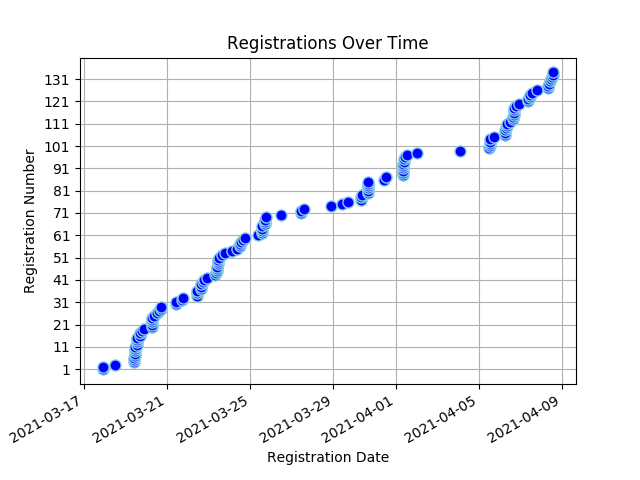
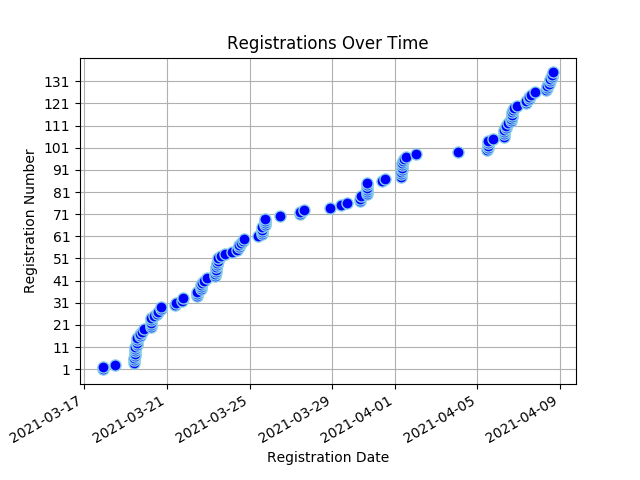
Registree stats backup on Thu 08 Apr 2021 16:24:18 SAST

diff --git a/content/registrees/_index.md b/content/registrees/_index.md
@@ -3,9 +3,9 @@ title: Registration Stats
 draft: false
 ---
 
-<ul><li><strong>Number of Registrees</strong>: 134</li>
+<ul><li><strong>Number of Registrees</strong>: 135</li>
 
-<li><strong>Number of Clubs</strong>: 48</li>
+<li><strong>Number of Clubs</strong>: 49</li>
 
 <li><strong>Club With Most Attendees</strong>: Windhoek (13 registrees)</li>
 </ul><h2>Registrees</h2>
@@ -33,6 +33,6 @@ draft: false
         </tr>
     </thead>
     <tbody>
-<tr><td>Natalie Abrahams</td><td>Cape Town</td><td>410W</td></tr><tr><td>Linda Anderson</td><td>George</td><td>410W</td></tr><tr><td>Linda Baumgarten</td><td>Sea Point</td><td>410W</td></tr><tr><td>Ulrike Behrens</td><td>Windhoek</td><td>410W</td></tr><tr><td>Valencia Beukes-Williams</td><td>Kuilsriver</td><td>410W</td></tr><tr><td>JOSE BRAGA BORGES</td><td>Malmesbury</td><td>410W</td></tr><tr><td>Paul Brauteseth</td><td>Port Shepstone</td><td>410E</td></tr><tr><td>Nelle Buhrmann</td><td>Sea Point</td><td>410W</td></tr><tr><td>Herman Cadman</td><td>Stellenbosch</td><td>410W</td></tr><tr><td>Linda Ann Cannone</td><td>Fish Hoek</td><td>410W</td></tr><tr><td>Sue Charles</td><td>Tokai</td><td>410W</td></tr><tr><td>Perry Chetty</td><td>East Coast</td><td>410E</td></tr><tr><td>Delaney Yeltsin Cloete</td><td>Eden</td><td>410W</td></tr><tr><td>Esme Cornelius</td><td>Kuilsriver</td><td>410W</td></tr><tr><td>Sharon Cottle</td><td>Groote Schuur</td><td>410W</td></tr><tr><td>Peter Daniel</td><td>Gordons Bay</td><td>410W</td></tr><tr><td>Norma Daniel</td><td>Gordons Bay</td><td>410W</td></tr><tr><td>Engela de Kock</td><td>Swellendam</td><td>410W</td></tr><tr><td>Francois de Kock</td><td>Swellendam</td><td>410W</td></tr><tr><td>ANDRE DE VILLIERS</td><td>Malgas</td><td>410W</td></tr><tr><td>Peggy Du Plooy</td><td>Krugersdorp</td><td>410E</td></tr><tr><td>Ivan Du Plooy</td><td>Krugersdorp</td><td>410E</td></tr><tr><td>Desiree du Toit</td><td>Ramsgate</td><td>410E</td></tr><tr><td>Natalie Etridge</td><td>Sedgefield</td><td>410W</td></tr><tr><td>AIDAN Ewers</td><td>Newlands</td><td>410W</td></tr><tr><td>Roger Fahrbach</td><td>Windhoek</td><td>410W</td></tr><tr><td>Beate Fahrbach</td><td>Windhoek</td><td>410W</td></tr><tr><td>Charles Flanagan</td><td>Tokai</td><td>410W</td></tr><tr><td>Jules Flanagan</td><td>Tokai</td><td>410W</td></tr><tr><td>Martin Froise</td><td>Letaba Tzaneen</td><td>410E</td></tr><tr><td>Valerie Graham</td><td>Nelspruit</td><td>410E</td></tr><tr><td>Mike Graham</td><td>Nelspruit</td><td>410E</td></tr><tr><td>Viv Grater</td><td>Sedgefield</td><td>410W</td></tr><tr><td>Mattheus Groves</td><td>Sedgefield</td><td>410W</td></tr><tr><td>Barbara Haywood</td><td>Eden</td><td>410W</td></tr><tr><td>Mike Heathcote</td><td>Port Shepstone</td><td>410E</td></tr><tr><td>Dorothy Hess</td><td>Kuilsriver</td><td>410W</td></tr><tr><td>Wendy Higgins</td><td>Wilro Park</td><td>410E</td></tr><tr><td>Jacqui Hocking</td><td>Midrand</td><td>410E</td></tr><tr><td>Cliff Hocking</td><td>Midrand</td><td>410E</td></tr><tr><td>Liz Houston</td><td>Table View</td><td>410W</td></tr><tr><td>John Houston</td><td>Table View</td><td>410W</td></tr><tr><td>Alna Jackson</td><td>Pretoria Jakaranda</td><td>410E</td></tr><tr><td>Dawid Jacobs</td><td>Durbanville</td><td>410W</td></tr><tr><td>Jean Jacobs</td><td>Mitchells Plain</td><td>410W</td></tr><tr><td>WOLSLEY Jacobson</td><td>Cape Town</td><td>410W</td></tr><tr><td>MALCOLM JOHNSTON</td><td>Standerton</td><td>410E</td></tr><tr><td>Grant Jonathan</td><td>Gordons Bay</td><td>410W</td></tr><tr><td>Jerome Kern</td><td>Groote Schuur</td><td>410W</td></tr><tr><td>Ian King</td><td>Alberton</td><td>410E</td></tr><tr><td>Muya Koloko</td><td>Durbanville</td><td>410W</td></tr><tr><td>Zwaai Kruger</td><td>Sedgefield</td><td>410W</td></tr><tr><td>Bevil Lakay</td><td>Mitchells Plain</td><td>410W</td></tr><tr><td>Paula Lang</td><td>Gordons Bay</td><td>410W</td></tr><tr><td>Jimmy Lang</td><td>Gordons Bay</td><td>410W</td></tr><tr><td>Heather Lee</td><td>Cape Of Good Hope</td><td>410W</td></tr><tr><td>Zarina Luck</td><td>Newcastle</td><td>410E</td></tr><tr><td>Sharon Mangwende</td><td>Cape Town</td><td>410W</td></tr><tr><td>Beaulieu Mare</td><td>Benoni Lakes</td><td>410E</td></tr><tr><td>Nick Maré</td><td>Benoni Lakes</td><td>410E</td></tr><tr><td>Jean Masson</td><td>Port Shepstone</td><td>410E</td></tr><tr><td>LANCE MAYTHAM</td><td>Swellendam</td><td>410W</td></tr><tr><td>ROSEMARIE MAYTHAM</td><td>Swellendam</td><td>410W</td></tr><tr><td>David Mccullough</td><td>Pretoria South</td><td>410E</td></tr><tr><td>Alec McKerrow</td><td>Port Alfred</td><td>410E</td></tr><tr><td>Mark Meltzer</td><td>The Wilds</td><td>410E</td></tr><tr><td>Denis Meyer</td><td>Port Shepstone</td><td>410E</td></tr><tr><td>Roy Michas</td><td>Midrand</td><td>410E</td></tr><tr><td>Dawn Michas</td><td>Midrand</td><td>410E</td></tr><tr><td>BERNICE MILLS</td><td>Centurion</td><td>410E</td></tr><tr><td>Patrick Mills</td><td>Centurion</td><td>410E</td></tr><tr><td>Cherie Milosevich</td><td>Milnerton</td><td>410W</td></tr><tr><td>Virginia Mkhize</td><td>Cape Town</td><td>410W</td></tr><tr><td>Frauke E. Moeller</td><td>Windhoek</td><td>410W</td></tr><tr><td>Bernadine Moses</td><td>Cape Town</td><td>410W</td></tr><tr><td>Pieter Nel</td><td>George</td><td>410W</td></tr><tr><td>Tillie Nel</td><td>Eden</td><td>410W</td></tr><tr><td>Mike Newlands</td><td>Port Alfred</td><td>410E</td></tr><tr><td>Mike Newlands</td><td>Port Alfred</td><td>410E</td></tr><tr><td>Chris Ocker</td><td>Fish Hoek</td><td>410W</td></tr><tr><td>Jenny Ocker</td><td>Fish Hoek</td><td>410W</td></tr><tr><td>Debra Olivier</td><td>Sedgefield</td><td>410W</td></tr><tr><td>Sundru Pillay</td><td>Durbanville</td><td>410W</td></tr><tr><td>BRIAN PORTEOUS</td><td>Hibberdene</td><td>410E</td></tr><tr><td>Mary-Anne Ras</td><td>Swellendam</td><td>410W</td></tr><tr><td>Hugo Reniers</td><td>Nelspruit</td><td>410E</td></tr><tr><td>Mark Rossouw</td><td>Tokai</td><td>410W</td></tr><tr><td>Irene Rugheimer</td><td>Bedfordview</td><td>410E</td></tr><tr><td>Ingrid Russell</td><td>Fish Hoek</td><td>410W</td></tr><tr><td>Sharon Sampie</td><td>Bergvliet</td><td>410W</td></tr><tr><td>Frank Schatz</td><td>Windhoek</td><td>410W</td></tr><tr><td>Vera Schatz</td><td>Windhoek</td><td>410W</td></tr><tr><td>Vera Schatz</td><td>Windhoek</td><td>410W</td></tr><tr><td>Francis Searle</td><td>Kouga</td><td>410E</td></tr><tr><td>Gloria Searle</td><td>Kouga</td><td>410E</td></tr><tr><td>Ami Sell</td><td>Windhoek</td><td>410W</td></tr><tr><td>Beryl Simpson</td><td>Cape Town</td><td>410W</td></tr><tr><td>Kenlis Sircoulomb</td><td>Windhoek</td><td>410W</td></tr><tr><td>Holger Sircoulomb</td><td>Windhoek</td><td>410W</td></tr><tr><td>Hennie Smeer</td><td>Windhoek</td><td>410W</td></tr><tr><td>Sue Smit</td><td>Centurion</td><td>410E</td></tr><tr><td>Herman Smit</td><td>Swellendam</td><td>410W</td></tr><tr><td>Jeff Smith</td><td>Port Shepstone</td><td>410E</td></tr><tr><td>LYN SNYMAN</td><td>Deep South</td><td>410W</td></tr><tr><td>Diana Sochen</td><td>Sea Point</td><td>410W</td></tr><tr><td>Max Stander</td><td>Port Alfred</td><td>410E</td></tr><tr><td>Ashley Stander</td><td>Krugersdorp</td><td>410E</td></tr><tr><td>Brett Jason Stander</td><td>Krugersdorp</td><td>410E</td></tr><tr><td>RORY stier</td><td>Deep South</td><td>410W</td></tr><tr><td>Patrick Strauss</td><td>Kuilsriver</td><td>410W</td></tr><tr><td>Lauryn Talbot</td><td>Benoni Lakes</td><td>410E</td></tr><tr><td>Diane Townsend</td><td>Benoni Lakes</td><td>410E</td></tr><tr><td>Diane Townsend</td><td>Benoni Lakes</td><td>410E</td></tr><tr><td>Alistair Tuckett</td><td>Roodepoort Clearwater Cyber</td><td>410E</td></tr><tr><td>Carl van Blerk</td><td>Eden</td><td>410W</td></tr><tr><td>HILARY LISE VAN BREDA</td><td>Cape Town</td><td>410W</td></tr><tr><td>Marina Van de Merwe</td><td>Malmesbury</td><td>410W</td></tr><tr><td>Sydney van Heerden</td><td>Wilro Park</td><td>410E</td></tr><tr><td>Sandy van Heerden</td><td>Wilro Park</td><td>410E</td></tr><tr><td>Neville Van Rensburg</td><td>Moorreesburg</td><td>410W</td></tr><tr><td>Johan van Rensburg</td><td>Windhoek</td><td>410W</td></tr><tr><td>Anne van Rensburg</td><td>Windhoek</td><td>410W</td></tr><tr><td>Jeannie van Wulven</td><td>Tygerberg Hills</td><td>410W</td></tr><tr><td>Alan van Wulven</td><td>Tygerberg Hills</td><td>410W</td></tr><tr><td>Deon van Wulven</td><td>Tygerberg Hills</td><td>410W</td></tr><tr><td>Kim van Wyk</td><td>North Durban</td><td>410E</td></tr><tr><td>Edith Van Wyk-Nelson</td><td>Kuilsriver</td><td>410W</td></tr><tr><td>Brian von der Decken</td><td>King William's Town</td><td>410E</td></tr><tr><td>Rinette Von Mollendorf</td><td>Durbanville</td><td>410W</td></tr><tr><td>Rochelle Vorster</td><td>Sedgefield</td><td>410W</td></tr><tr><td>Alastair Warman</td><td>Port Shepstone</td><td>410E</td></tr><tr><td>Allan Watson</td><td>Sea Point</td><td>410W</td></tr><tr><td>Neville Williamson</td><td>Port Alfred</td><td>410E</td></tr><tr><td>Judy Young</td><td>Durbanville</td><td>410W</td></tr>
+<tr><td>Natalie Abrahams</td><td>Cape Town</td><td>410W</td></tr><tr><td>Linda Anderson</td><td>George</td><td>410W</td></tr><tr><td>Linda Baumgarten</td><td>Sea Point</td><td>410W</td></tr><tr><td>Ulrike Behrens</td><td>Windhoek</td><td>410W</td></tr><tr><td>Valencia Beukes-Williams</td><td>Kuilsriver</td><td>410W</td></tr><tr><td>JOSE BRAGA BORGES</td><td>Malmesbury</td><td>410W</td></tr><tr><td>Paul Brauteseth</td><td>Port Shepstone</td><td>410E</td></tr><tr><td>Nelle Buhrmann</td><td>Sea Point</td><td>410W</td></tr><tr><td>Herman Cadman</td><td>Stellenbosch</td><td>410W</td></tr><tr><td>Linda Ann Cannone</td><td>Fish Hoek</td><td>410W</td></tr><tr><td>Sue Charles</td><td>Tokai</td><td>410W</td></tr><tr><td>Perry Chetty</td><td>East Coast</td><td>410E</td></tr><tr><td>Delaney Yeltsin Cloete</td><td>Eden</td><td>410W</td></tr><tr><td>Esme Cornelius</td><td>Kuilsriver</td><td>410W</td></tr><tr><td>Sharon Cottle</td><td>Groote Schuur</td><td>410W</td></tr><tr><td>Peter Daniel</td><td>Gordons Bay</td><td>410W</td></tr><tr><td>Norma Daniel</td><td>Gordons Bay</td><td>410W</td></tr><tr><td>Engela de Kock</td><td>Swellendam</td><td>410W</td></tr><tr><td>Francois de Kock</td><td>Swellendam</td><td>410W</td></tr><tr><td>ANDRE DE VILLIERS</td><td>Malgas</td><td>410W</td></tr><tr><td>Peggy Du Plooy</td><td>Krugersdorp</td><td>410E</td></tr><tr><td>Ivan Du Plooy</td><td>Krugersdorp</td><td>410E</td></tr><tr><td>Desiree du Toit</td><td>Ramsgate</td><td>410E</td></tr><tr><td>Natalie Etridge</td><td>Sedgefield</td><td>410W</td></tr><tr><td>AIDAN Ewers</td><td>Newlands</td><td>410W</td></tr><tr><td>Roger Fahrbach</td><td>Windhoek</td><td>410W</td></tr><tr><td>Beate Fahrbach</td><td>Windhoek</td><td>410W</td></tr><tr><td>Charles Flanagan</td><td>Tokai</td><td>410W</td></tr><tr><td>Jules Flanagan</td><td>Tokai</td><td>410W</td></tr><tr><td>Martin Froise</td><td>Letaba Tzaneen</td><td>410E</td></tr><tr><td>Valerie Graham</td><td>Nelspruit</td><td>410E</td></tr><tr><td>Mike Graham</td><td>Nelspruit</td><td>410E</td></tr><tr><td>Viv Grater</td><td>Sedgefield</td><td>410W</td></tr><tr><td>Mattheus Groves</td><td>Sedgefield</td><td>410W</td></tr><tr><td>Barbara Haywood</td><td>Eden</td><td>410W</td></tr><tr><td>Mike Heathcote</td><td>Port Shepstone</td><td>410E</td></tr><tr><td>Zarina Hendricks</td><td>Athlone</td><td>410W</td></tr><tr><td>Dorothy Hess</td><td>Kuilsriver</td><td>410W</td></tr><tr><td>Wendy Higgins</td><td>Wilro Park</td><td>410E</td></tr><tr><td>Jacqui Hocking</td><td>Midrand</td><td>410E</td></tr><tr><td>Cliff Hocking</td><td>Midrand</td><td>410E</td></tr><tr><td>Liz Houston</td><td>Table View</td><td>410W</td></tr><tr><td>John Houston</td><td>Table View</td><td>410W</td></tr><tr><td>Alna Jackson</td><td>Pretoria Jakaranda</td><td>410E</td></tr><tr><td>Dawid Jacobs</td><td>Durbanville</td><td>410W</td></tr><tr><td>Jean Jacobs</td><td>Mitchells Plain</td><td>410W</td></tr><tr><td>WOLSLEY Jacobson</td><td>Cape Town</td><td>410W</td></tr><tr><td>MALCOLM JOHNSTON</td><td>Standerton</td><td>410E</td></tr><tr><td>Grant Jonathan</td><td>Gordons Bay</td><td>410W</td></tr><tr><td>Jerome Kern</td><td>Groote Schuur</td><td>410W</td></tr><tr><td>Ian King</td><td>Alberton</td><td>410E</td></tr><tr><td>Muya Koloko</td><td>Durbanville</td><td>410W</td></tr><tr><td>Zwaai Kruger</td><td>Sedgefield</td><td>410W</td></tr><tr><td>Bevil Lakay</td><td>Mitchells Plain</td><td>410W</td></tr><tr><td>Paula Lang</td><td>Gordons Bay</td><td>410W</td></tr><tr><td>Jimmy Lang</td><td>Gordons Bay</td><td>410W</td></tr><tr><td>Heather Lee</td><td>Cape Of Good Hope</td><td>410W</td></tr><tr><td>Zarina Luck</td><td>Newcastle</td><td>410E</td></tr><tr><td>Sharon Mangwende</td><td>Cape Town</td><td>410W</td></tr><tr><td>Beaulieu Mare</td><td>Benoni Lakes</td><td>410E</td></tr><tr><td>Nick Maré</td><td>Benoni Lakes</td><td>410E</td></tr><tr><td>Jean Masson</td><td>Port Shepstone</td><td>410E</td></tr><tr><td>LANCE MAYTHAM</td><td>Swellendam</td><td>410W</td></tr><tr><td>ROSEMARIE MAYTHAM</td><td>Swellendam</td><td>410W</td></tr><tr><td>David Mccullough</td><td>Pretoria South</td><td>410E</td></tr><tr><td>Alec McKerrow</td><td>Port Alfred</td><td>410E</td></tr><tr><td>Mark Meltzer</td><td>The Wilds</td><td>410E</td></tr><tr><td>Denis Meyer</td><td>Port Shepstone</td><td>410E</td></tr><tr><td>Roy Michas</td><td>Midrand</td><td>410E</td></tr><tr><td>Dawn Michas</td><td>Midrand</td><td>410E</td></tr><tr><td>BERNICE MILLS</td><td>Centurion</td><td>410E</td></tr><tr><td>Patrick Mills</td><td>Centurion</td><td>410E</td></tr><tr><td>Cherie Milosevich</td><td>Milnerton</td><td>410W</td></tr><tr><td>Virginia Mkhize</td><td>Cape Town</td><td>410W</td></tr><tr><td>Frauke E. Moeller</td><td>Windhoek</td><td>410W</td></tr><tr><td>Bernadine Moses</td><td>Cape Town</td><td>410W</td></tr><tr><td>Pieter Nel</td><td>George</td><td>410W</td></tr><tr><td>Tillie Nel</td><td>Eden</td><td>410W</td></tr><tr><td>Mike Newlands</td><td>Port Alfred</td><td>410E</td></tr><tr><td>Mike Newlands</td><td>Port Alfred</td><td>410E</td></tr><tr><td>Chris Ocker</td><td>Fish Hoek</td><td>410W</td></tr><tr><td>Jenny Ocker</td><td>Fish Hoek</td><td>410W</td></tr><tr><td>Debra Olivier</td><td>Sedgefield</td><td>410W</td></tr><tr><td>Sundru Pillay</td><td>Durbanville</td><td>410W</td></tr><tr><td>BRIAN PORTEOUS</td><td>Hibberdene</td><td>410E</td></tr><tr><td>Mary-Anne Ras</td><td>Swellendam</td><td>410W</td></tr><tr><td>Hugo Reniers</td><td>Nelspruit</td><td>410E</td></tr><tr><td>Mark Rossouw</td><td>Tokai</td><td>410W</td></tr><tr><td>Irene Rugheimer</td><td>Bedfordview</td><td>410E</td></tr><tr><td>Ingrid Russell</td><td>Fish Hoek</td><td>410W</td></tr><tr><td>Sharon Sampie</td><td>Bergvliet</td><td>410W</td></tr><tr><td>Frank Schatz</td><td>Windhoek</td><td>410W</td></tr><tr><td>Vera Schatz</td><td>Windhoek</td><td>410W</td></tr><tr><td>Vera Schatz</td><td>Windhoek</td><td>410W</td></tr><tr><td>Francis Searle</td><td>Kouga</td><td>410E</td></tr><tr><td>Gloria Searle</td><td>Kouga</td><td>410E</td></tr><tr><td>Ami Sell</td><td>Windhoek</td><td>410W</td></tr><tr><td>Beryl Simpson</td><td>Cape Town</td><td>410W</td></tr><tr><td>Kenlis Sircoulomb</td><td>Windhoek</td><td>410W</td></tr><tr><td>Holger Sircoulomb</td><td>Windhoek</td><td>410W</td></tr><tr><td>Hennie Smeer</td><td>Windhoek</td><td>410W</td></tr><tr><td>Sue Smit</td><td>Centurion</td><td>410E</td></tr><tr><td>Herman Smit</td><td>Swellendam</td><td>410W</td></tr><tr><td>Jeff Smith</td><td>Port Shepstone</td><td>410E</td></tr><tr><td>LYN SNYMAN</td><td>Deep South</td><td>410W</td></tr><tr><td>Diana Sochen</td><td>Sea Point</td><td>410W</td></tr><tr><td>Max Stander</td><td>Port Alfred</td><td>410E</td></tr><tr><td>Ashley Stander</td><td>Krugersdorp</td><td>410E</td></tr><tr><td>Brett Jason Stander</td><td>Krugersdorp</td><td>410E</td></tr><tr><td>RORY stier</td><td>Deep South</td><td>410W</td></tr><tr><td>Patrick Strauss</td><td>Kuilsriver</td><td>410W</td></tr><tr><td>Lauryn Talbot</td><td>Benoni Lakes</td><td>410E</td></tr><tr><td>Diane Townsend</td><td>Benoni Lakes</td><td>410E</td></tr><tr><td>Diane Townsend</td><td>Benoni Lakes</td><td>410E</td></tr><tr><td>Alistair Tuckett</td><td>Roodepoort Clearwater Cyber</td><td>410E</td></tr><tr><td>Carl van Blerk</td><td>Eden</td><td>410W</td></tr><tr><td>HILARY LISE VAN BREDA</td><td>Cape Town</td><td>410W</td></tr><tr><td>Marina Van de Merwe</td><td>Malmesbury</td><td>410W</td></tr><tr><td>Sydney van Heerden</td><td>Wilro Park</td><td>410E</td></tr><tr><td>Sandy van Heerden</td><td>Wilro Park</td><td>410E</td></tr><tr><td>Neville Van Rensburg</td><td>Moorreesburg</td><td>410W</td></tr><tr><td>Johan van Rensburg</td><td>Windhoek</td><td>410W</td></tr><tr><td>Anne van Rensburg</td><td>Windhoek</td><td>410W</td></tr><tr><td>Jeannie van Wulven</td><td>Tygerberg Hills</td><td>410W</td></tr><tr><td>Alan van Wulven</td><td>Tygerberg Hills</td><td>410W</td></tr><tr><td>Deon van Wulven</td><td>Tygerberg Hills</td><td>410W</td></tr><tr><td>Kim van Wyk</td><td>North Durban</td><td>410E</td></tr><tr><td>Edith Van Wyk-Nelson</td><td>Kuilsriver</td><td>410W</td></tr><tr><td>Brian von der Decken</td><td>King William's Town</td><td>410E</td></tr><tr><td>Rinette Von Mollendorf</td><td>Durbanville</td><td>410W</td></tr><tr><td>Rochelle Vorster</td><td>Sedgefield</td><td>410W</td></tr><tr><td>Alastair Warman</td><td>Port Shepstone</td><td>410E</td></tr><tr><td>Allan Watson</td><td>Sea Point</td><td>410W</td></tr><tr><td>Neville Williamson</td><td>Port Alfred</td><td>410E</td></tr><tr><td>Judy Young</td><td>Durbanville</td><td>410W</td></tr>
 </tbody>
 </table>

diff --git a/content/full_stats/_index.md b/content/full_stats/_index.md
@@ -16,17 +16,17 @@ draft: false
 </head>
 <body>
 <h1 style="color: #000000;">Full Registration Stats</h1>
-<ul><li><strong>Number of Registrees</strong>: 134</li>
-<li><strong>Number of Clubs</strong>: 48</li>
+<ul><li><strong>Number of Registrees</strong>: 135</li>
+<li><strong>Number of Clubs</strong>: 49</li>
 <li><strong>Club With Most Attendees</strong>: Windhoek (13 registrees)</li>
 
-<li><strong>Number of District 410W Convention Attendees</strong>: 83</li>
-<li><strong>Number of District 410W Convention Voters</strong>: 35</li>
+<li><strong>Number of District 410W Convention Attendees</strong>: 84</li>
+<li><strong>Number of District 410W Convention Voters</strong>: 36</li>
 <li><strong>Number of District 410E Convention Attendees</strong>: 48</li>
 <li><strong>Number of District 410E Convention Voters</strong>: 28</li>
 
-<li><strong>Number of MD410 Convention Attendees</strong>: 113</li>
-<li><strong>Number of MD410 Convention Voters</strong>: 58</li>
+<li><strong>Number of MD410 Convention Attendees</strong>: 114</li>
+<li><strong>Number of MD410 Convention Voters</strong>: 59</li>
 
 </ul>
 <h2>Registrees</h2>
@@ -450,6 +450,17 @@ draft: false
 <td>Mike Heathcote</td>
 <td>Port Shepstone</td>
 <td>410E</td>
+<td style="background-color: lightgreen">Yes</td>
+<td style="background-color: lightgreen">Yes</td>
+<td style="background-color: lightgreen">Yes</td>
+<td>No</td>
+</tr>
+
+    
+<td>143</td>
+<td>Zarina Hendricks</td>
+<td>Athlone</td>
+<td>410W</td>
 <td style="background-color: lightgreen">Yes</td>
 <td style="background-color: lightgreen">Yes</td>
 <td style="background-color: lightgreen">Yes</td>
